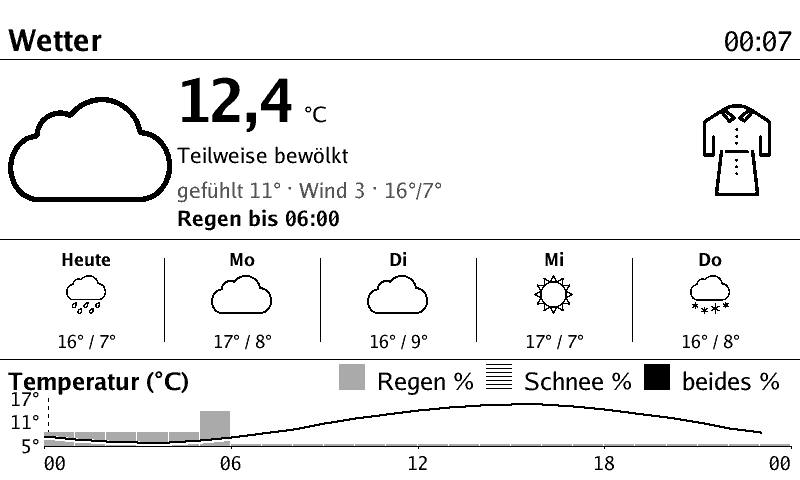
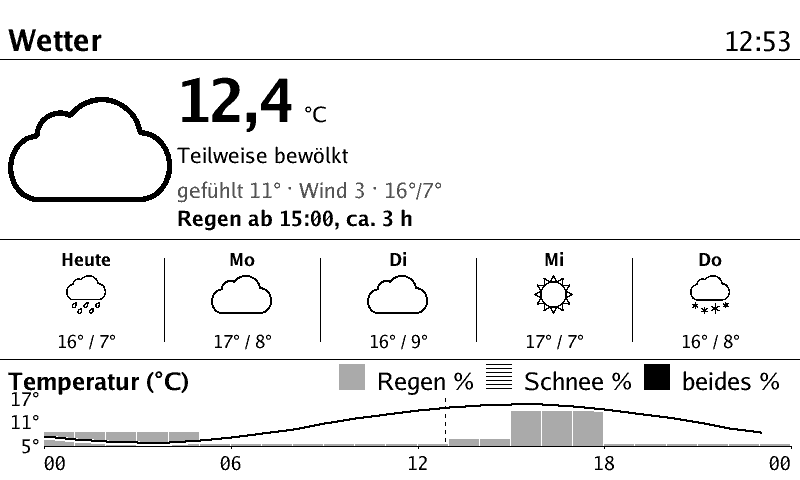
Remove the clothing advice from the weather plugin (#401)

diff --git a/plugins/cmd/weather/plugin.go b/plugins/cmd/weather/plugin.go
@@ -110,10 +110,7 @@ func (w *weather) Describe() plugin.Description {
 		},
 		Widgets: []plugin.WidgetInfo{
 			{Widget: "current", Title: "Current weather", Kinds: image, MinWidth: 160, MinHeight: 80,
-				Sizes: []plugin.Span{{Columns: 3, Rows: 3}, {Columns: 6, Rows: 3}},
-				Args: map[string]plugin.Arg{
-					"clothing": {Type: "bool", Default: false, Description: "T-shirt or pullover by apparent temperature and wind"},
-				}},
+				Sizes: []plugin.Span{{Columns: 3, Rows: 3}, {Columns: 6, Rows: 3}}},
 			{Widget: "days", Title: "Daily forecast", Kinds: image, MinWidth: 200, MinHeight: 80,
 				Sizes: []plugin.Span{{Columns: 3, Rows: 4}, {Columns: 6, Rows: 2}},
 				Args:  forecastArgs},
@@ -240,15 +237,6 @@ func (w *weather) Render(req *plugin.Request, wr plugin.WidgetRequest, img *imag
 	return fmt.Errorf("%w %q", plugin.ErrUnknownWidget, wr.Widget)
 }
 
-// clothing advises a pullover below 15 °C apparent temperature or above wind
-// force 3, else a T-shirt.
-func clothing(c current) string {
-	if c.Apparent < 15 || c.Beaufort > 3 {
-		return "pullover"
-	}
-	return "tshirt"
-}
-
 func (w *weather) current(wr plugin.WidgetRequest, img *image.Paletted) error {
 	c := w.cur.Current
 	b := img.Rect.Inset(wr.Style.Padding)
@@ -256,11 +244,6 @@ func (w *weather) current(wr plugin.WidgetRequest, img *image.Paletted) error {
 		return plugin.TooSmall(wr)
 	}
 	text := b
-	if wr.Arg().Bool("clothing", false) {
-		cw := min(b.Dy()*2/3, b.Dx()/5)
-		icon(clothing(c)).Draw(img, image.Rect(b.Max.X-cw, b.Min.Y, b.Max.X, b.Max.Y), cw*85/100, render.Center)
-		text.Max.X -= cw + wr.Style.Padding
-	}
 	detail := fmt.Sprintf("%s %s · %s %d · %s/%s", w.t("gefühlt", "feels"), w.temp(c.Apparent),
 		w.t("Wind", "wind"), c.Beaufort, w.temp(w.cur.Today.Max), w.temp(w.cur.Today.Min))
 	hero := design.Hero{

diff --git a/plugins/cmd/weather/main.go b/plugins/cmd/weather/main.go
@@ -1,7 +1,7 @@
 // Command weather is a Paperboy plugin (ADR 0049) with Open-Meteo data. It
 // fetches the forecast in the background, keeps it in memory and draws the
-// widgets "current" (pictogram, temperature, condition, optional clothing
-// advice, next precipitation), "days" (daily forecast) and "hours" (today's
+// widgets "current" (pictogram, temperature, condition, next
+// precipitation), "days" (daily forecast) and "hours" (today's
 // temperature curve with the precipitation type). "current" and "days" have
 // text variants for character displays.
 //

diff --git a/docs/plugins/weather.md b/docs/plugins/weather.md
@@ -4,8 +4,8 @@ Weather from [Open-Meteo](https://open-meteo.com/), no API key needed.
 
 ## Screenshots
 
-The example page `wetter` shows the current weather with clothing advice, the
-next five days and today's temperature curve:
+The example page `wetter` shows the current weather, the next five days and
+today's temperature curve:
 
 ![The weather page](../images/plugins/weather/page-wetter.png)
 
@@ -27,7 +27,7 @@ next five days and today's temperature curve:
 
 All widgets are for image displays.
 
-- `current`: pictogram, temperature, condition, apparent temperature, wind force, today's range and the next precipitation of the day, e.g. `Rain from 14:00, about 2 h`, `Rain until 15:00` or `No rain today`. `clothing: true` adds a T-shirt or a pullover; the pullover appears below 15 °C apparent temperature or above wind force 3.
+- `current`: pictogram, temperature, condition, apparent temperature, wind force, today's range and the next precipitation of the day, e.g. `Rain from 14:00, about 2 h`, `Rain until 15:00` or `No rain today`.
 - `days`: pictogram and range per day. Args: `days: 1..5`.
 - `hours`: today's temperature as a line with the precipitation probability as bars. The fill names the type: rain shaded, snow hatched, a mixed hour solid. The heading names the fill patterns, the dashed line marks now.
 

diff --git a/examples/README.md b/examples/README.md
@@ -16,8 +16,7 @@ date ([ADR 0120](../docs/adr/0120-arguments-for-values.md)).
   plugin values (ADR 0111).
 - `kalender.yaml` - agenda next to a month grid.
 - `woche.yaml` - the next seven days as calendar columns.
-- `wetter.yaml` - current weather with clothing advice, five days and today's
-  temperature curve.
+- `wetter.yaml` - current weather, five days and today's temperature curve.
 - `spritpreise.yaml` - the cheapest station, the nearest stations and the price
   history of the day from Tankerkönig; `spritpreise.lcd2004.yaml` shows two
   prices, the cheapest station, the time of the fetch and a list on 20×4.
@@ -47,8 +46,8 @@ date ([ADR 0120](../docs/adr/0120-arguments-for-values.md)).
 - `drucker.yaml` - a Prusa printer from PrusaLink: the progress as a ring, the
   temperatures and the state card; `drucker.lcd2004.yaml` shows the state, the
   file, the progress and the temperatures on 20×4.
-- `unterwegs.yaml` - current weather with clothing advice and the next
-  departures, for leaving the house.
+- `unterwegs.yaml` - current weather and the next departures, for leaving the
+  house.
 - `pokemon.yaml` - a full-screen Pokédex card.
 - `comic.yaml` - a full-screen xkcd comic with title and alt text.
 - `countdown.yaml` - countdowns to Christmas and New Year (yearly, one with a

diff --git a/plugins/cmd/weather/icons/README.md b/plugins/cmd/weather/icons/README.md
@@ -13,5 +13,3 @@ plugin embeds them and reduces each picture to a mask of opaque dark pixels
 | `rain.png` | 🌧 | U+1F327 | <https://github.com/hfg-gmuend/openmoji/blob/master/black/618x618/1F327.png> |
 | `snow.png` | 🌨 | U+1F328 | <https://github.com/hfg-gmuend/openmoji/blob/master/black/618x618/1F328.png> |
 | `thunder.png` | 🌩 | U+1F329 | <https://github.com/hfg-gmuend/openmoji/blob/master/black/618x618/1F329.png> |
-| `tshirt.png` | 👕 | U+1F455 | <https://github.com/hfg-gmuend/openmoji/blob/master/black/618x618/1F455.png> |
-| `pullover.png` | 🧥 | U+1F9E5 | <https://github.com/hfg-gmuend/openmoji/blob/master/black/618x618/1F9E5.png> |
